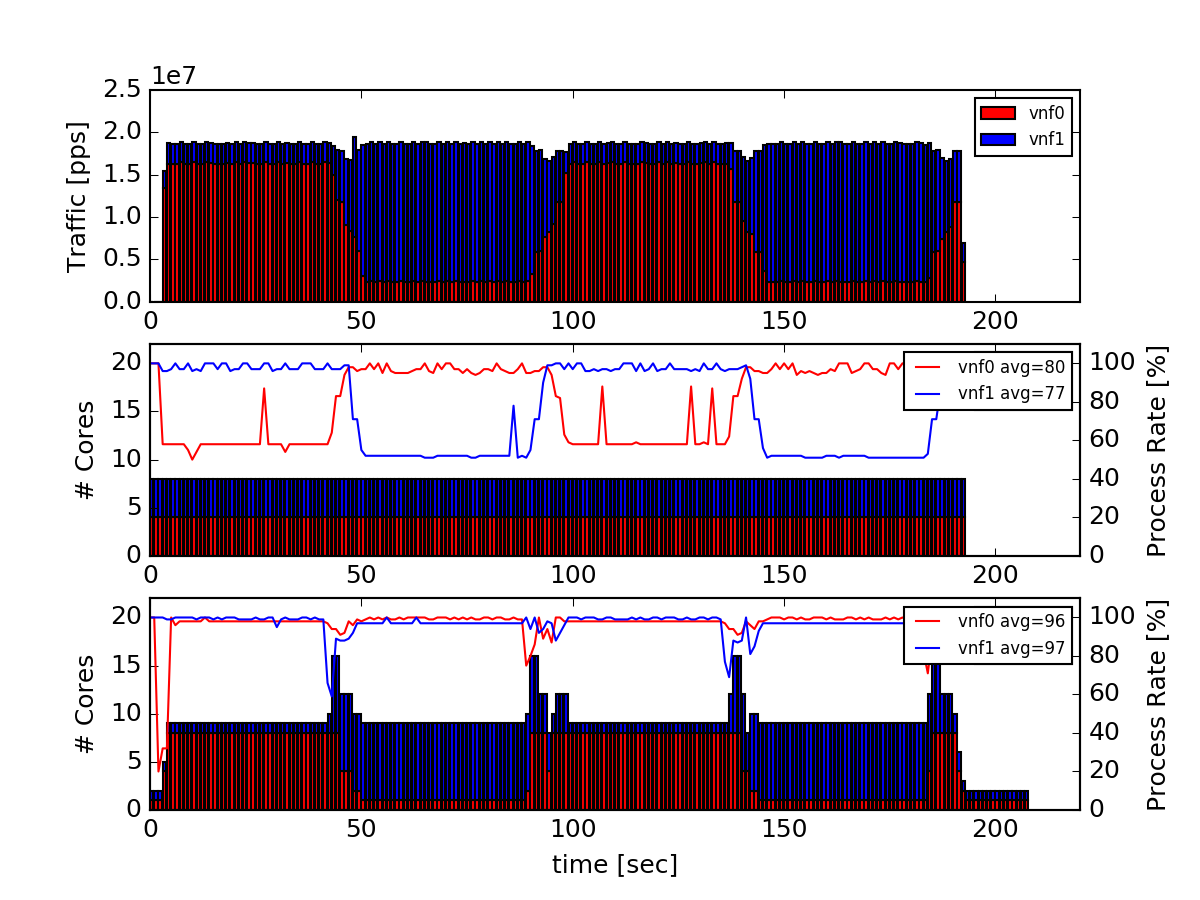
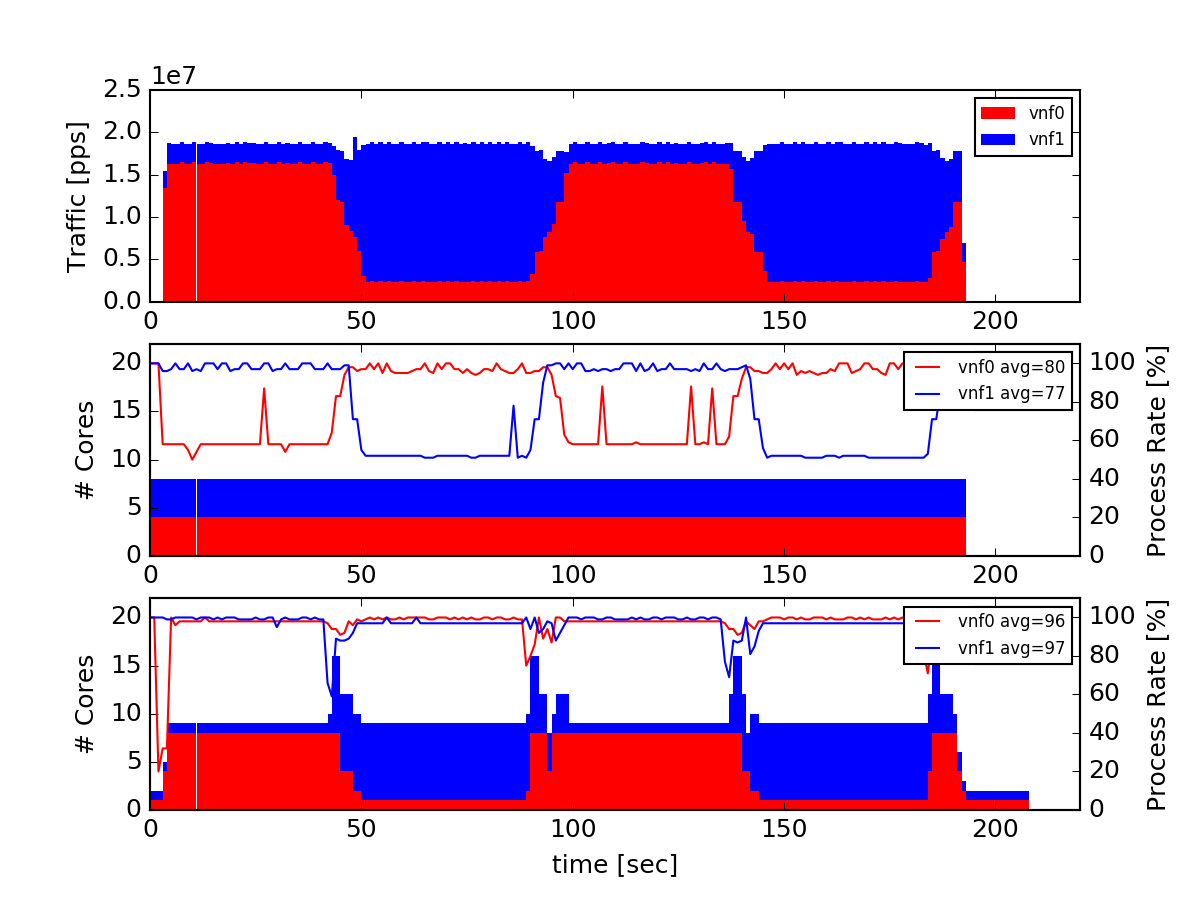
2018.02.03-16:42

Changed region(s): [[0.1233, 0.1556, 0.8017, 0.3422], [0.1233, 0.7156, 0.8633, 0.9022], [0.1233, 0.5289, 0.8017, 0.6222]]

diff --git a/figs/d100report/main.py b/figs/d100report/main.py
@@ -49,6 +49,7 @@ def main():
     xend   = 1100 # 8times
     xend   = 600  # 4times
     xend   = 220  # kukei
+    bar_width = 1.0
 
     fig, ax1 = plt.subplots(3)
     ax1[2].set_xlabel('time [sec]')
@@ -57,8 +58,10 @@ def main():
     ax1[0].set_ylim([0, 25000000])
     ax1[0].set_xlim([xbegin, xend])
     ax1[0].bar(di_idx, di_vnf0traf,
+            width=bar_width, edgecolor="none",
             color="r", label='vnf0')
     ax1[0].bar(di_idx, di_vnf1traf,
+            width=bar_width, edgecolor="none",
             bottom=di_vnf0traf,
             color="b", label='vnf1')
     ax1[0].legend(loc=1, fontsize=8)
@@ -67,8 +70,10 @@ def main():
     ax1[1].set_xlim([xbegin, xend])
     ax1[1].set_ylim([0, 22])
     ax1[1].bar(di_idx, di_vnf0core,
+            width=bar_width, edgecolor="none",
             color="r", label='vnf0')
     ax1[1].bar(di_idx, di_vnf1core,
+            width=bar_width, edgecolor="none",
             bottom=di_vnf0core,
             color="b", label='vnf1')
     ax1[1].legend(loc=1, fontsize=8)
@@ -87,8 +92,10 @@ def main():
     ax1[2].set_xlim([xbegin, xend])
     ax1[2].set_ylim([0, 22])
     ax1[2].bar(en_idx, en_vnf0core,
+            width=bar_width, edgecolor="none",
             color="r", label='vnf0')
     ax1[2].bar(en_idx, en_vnf1core,
+            width=bar_width, edgecolor="none",
             bottom=en_vnf0core,
             color="b", label='vnf1')
     ax1[2].legend(loc=1, fontsize=8)

diff --git a/figs/d100report/README.md b/figs/d100report/README.md
@@ -17,6 +17,14 @@ tuning parameter
     }
 ```
 
+**Result**
+
+Performance Compare between D2enable and D2disable-44fix.
+
+![](out.png)
+
+## MicroBenchmarks
+
 **Fixed Resourcing #core is 4 and 4**
 
 ![](d2disable44fix_d100.png)
